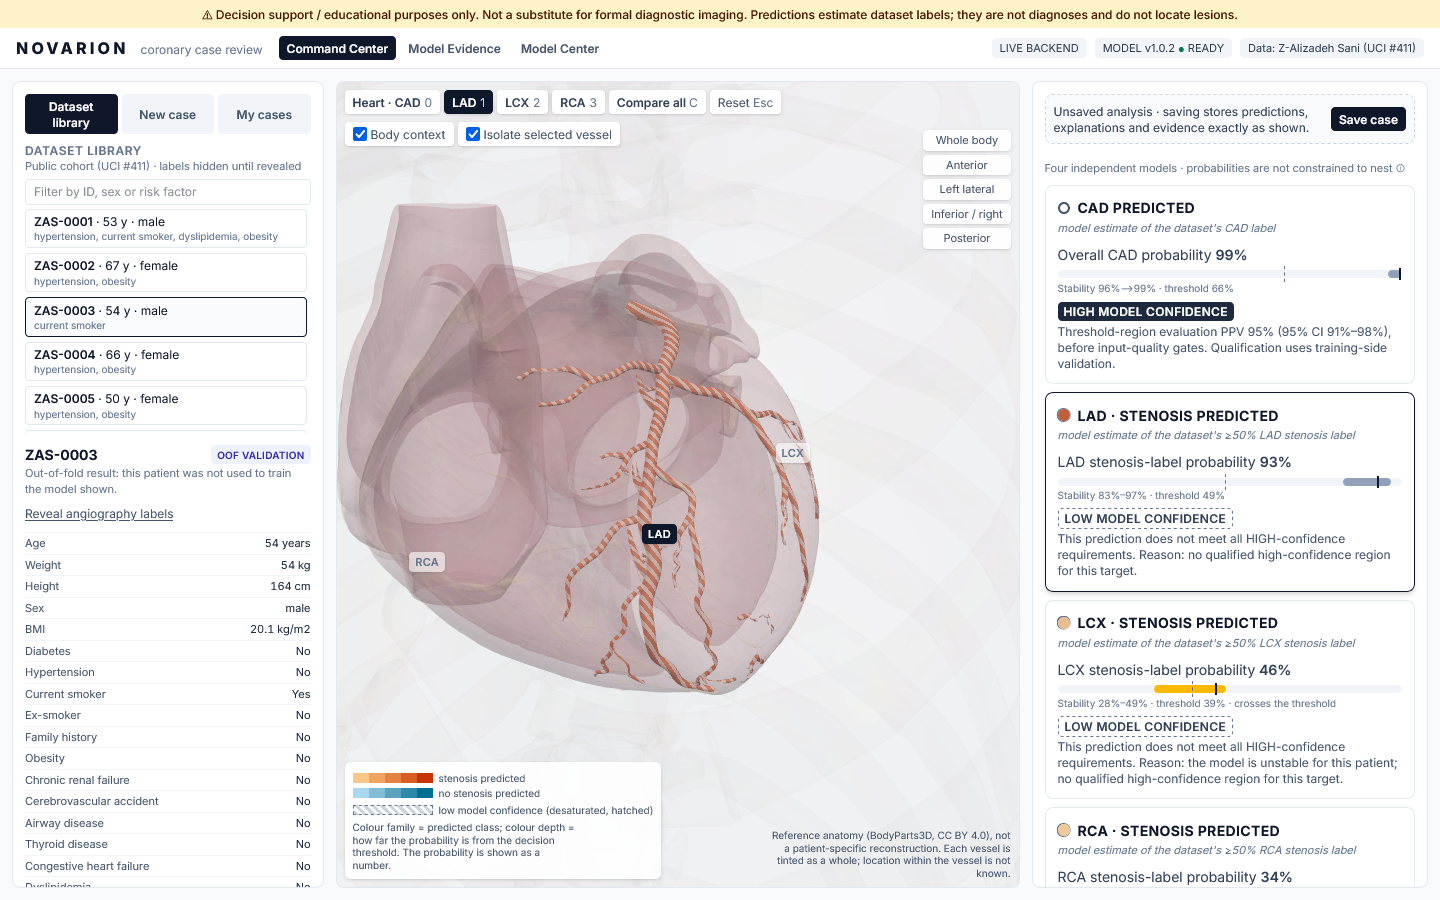
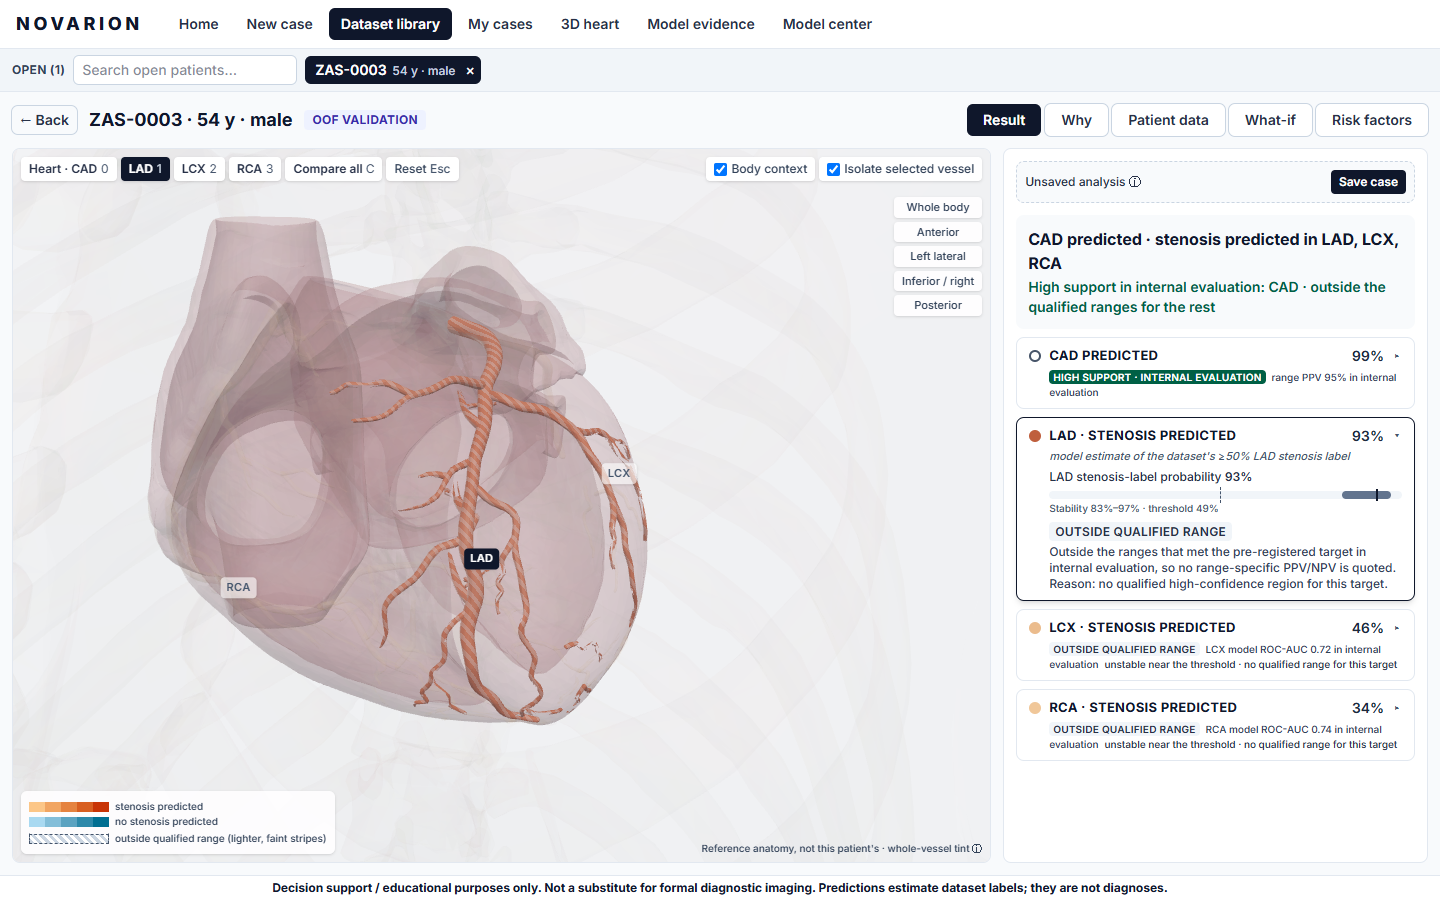
README and docs: status after v1.0.6 (D-035 to D-039), current counts, live URL, fresh screenshots
- README: a list of everything on main since v1.0.6, the decision log range D-001…D-039, 98 browser flows (mock and
  real model, 2026-10-15), the hosted URL no longer listed as open, release v1.0.7 added to the open items, and new
  screenshots from the current interface with the real model (ZAS-0003, a non-demo patient; Model Center charts).
- Compliance: dated 2026-10-15; the public URL and the published bundle are Met; 238 Python and 42 unit tests; the
  Model evidence (D-035) and Model Center (D-037) charts; the browser row rewritten with the real-model run.
- Model card: the displayed-scope CAD figure (44.6%, PPV 98.5%) beside the pre-gate threshold regions.
- Presentation notes: the measured AUCs and tier figures filled in where placeholders remained.

diff --git a/docs/compliance.md b/docs/compliance.md
@@ -4,7 +4,7 @@ Audit of NOVARION against the Track A brief (Cardiovascular Risk Visualization &
 evidence: the code, a test or a measured result. Status: **Met**, **Met (interpreted)** where the brief is open and
 our reading is stated, or **Open** where work remains.
 
-Audited 2026-10-07 and updated 2026-10-13 against production model **v1.0.2**: the same models as the frozen
+Audited 2026-10-07 and updated 2026-10-15 against production model **v1.0.2**: the same models as the frozen
 v1.0.0, plus stability intervals (D-017) and fold-safe evidence ledgers (D-019).
 
 ## Prediction
@@ -24,7 +24,7 @@ v1.0.0, plus stability intervals (D-017) and fold-safe evidence ledgers (D-019).
 |---|---|---|
 | 2a Interactive 3D torso/heart (React Three Fiber) | A BodyParts3D heart with named LAD/LCX/RCA/left-main nodes, plus a translucent torso and rib cage (`frontend/public/models/heart.glb`, `config/anatomy_manifest.json`). | Met |
 | 2b Vessel colour driven by predicted probability | OKLCH transfer: the colour family is the predicted class, and the depth is a monotone function of the calibrated probability with t_op as zero. Predictions outside the qualified range (LOW tier) have lower chroma and faint stripes (D-024). The exact probability is always shown (`frontend/src/three/colors.ts`; `config/anatomy_map.json`). | Met |
-| 2c Rotate, zoom, select anatomical regions | Orbit and zoom, five camera presets and a whole-body view; a 3D heart page shows the anatomy on its own, with a description of each artery (D-025). Vessels and the heart can be clicked in 3D or selected from cards (one store action). The torso and ribs are deliberately not pickable, so a click can't land on context instead of a vessel (D-011). | Met |
+| 2c Rotate, zoom, select anatomical regions | Orbit and zoom, five camera presets and a whole-body view; a 3D heart page shows the anatomy on its own, with a description of each artery (D-025), and the public landing page has an explorable reference heart with artery controls and a short tour (D-036). Vessels and the heart can be clicked in 3D or selected from cards (one store action). The torso and ribs are deliberately not pickable, so a click can't land on context instead of a vessel (D-011). | Met |
 | Show **where** and **how** | **Where:** the predicted vessel on the heart, tinted as a whole; we never imply a lesion location. **How:** per-vessel feature contributions and group sums. The data has one visit per patient, so we show contributing factors, not progression. | Met (interpreted) |
 | Output ↔ vessel correspondence | `config/anatomy_map.json` binds each target to its node, camera and label anchor (`tests/test_anatomy.py`). | Met |
 | Real-time visualization updates | Editing a measurement triggers a debounced (300 ms) `/predict`; vessels recolour with easing and stale responses are discarded. `/predict` p95 is 104 ms on the Docker stack, against a 200 ms budget (`results/perf.json`). | Met |
@@ -38,7 +38,7 @@ v1.0.0, plus stability intervals (D-017) and fold-safe evidence ledgers (D-019).
 | 3b SHAP/LIME explanation | Exact additive SHAP in calibrated log-odds: linear SHAP, TreeSHAP or EBM terms. The sum rule is tested for every served explanation (`tests/test_ml_core.py`, `tests/test_bundle.py`). | Met |
 | 3c Measurements and their relative contribution | The Why panel's measurement table shows each value, its contribution, a relative-share column and cohort percentiles; a compare-all-vessels heatmap sits alongside. | Met |
 | What-if and robustness (plan Tier 3) | `POST /sensitivity` ICE curves for new/edited cases (age and sex locked; "model sensitivity, not treatment simulation"), Unknown inputs that could flip the class, model-family agreement (Table 3b), a 1,000-shuffle label-permutation test (Table 1b, p = 0.001 for every target) and stability bars on the cards. | Met |
-| Explanation dashboard | The Model Evidence page carries Tables 1–2, ROC/PR curves with bootstrap bands, reliability, threshold sweep and family benchmarks. | Met |
+| Explanation dashboard | The Model Evidence page (rebuilt in D-035 on shadcn/ui charts + Recharts) carries Tables 1–2, confidence-tier cards that reconcile to the cohort, ROC/PR curves with bootstrap bands, reliability, threshold sweep, the guideline comparison as a paired ΔAUC plot, subgroup forest plots, a Methods & limitations tab and CSV/JSON export of every chart. The Model Center draws the replay learning curves, gate outcomes and paired ΔAUC in the same style (D-037). | Met |
 
 ## Assets, safety and technology
 
@@ -52,8 +52,8 @@ v1.0.0, plus stability intervals (D-017) and fold-safe evidence ledgers (D-019).
 
 | Deliverable | Evidence | Status |
 |---|---|---|
-| Web app | Docker stack (`docker compose up` → http://localhost:8080, READY in ~15 s; the API is reached through it at /api/v1, the backend port is not published (audit R17); `NOVARION_WEB_PORT` moves it off a busy port) and a dev setup. Offline demo mode serves a hash-verified static bundle. | Met (local); **Open:** a public hosted URL, if the submission requires one |
-| Trained pipeline + weights | `make reproduce` reruns everything. Bundle `artifacts/models/v1.0.2` has per-file hashes, and the backend refuses a modified bundle. Weights are gitignored and rebuilt by `make reproduce`. | Met; **Open:** decide whether to attach the bundle to a GitHub release |
+| Web app | Docker stack (`docker compose up` → http://localhost:8080, READY in ~15 s; the API is reached through it at /api/v1, the backend port is not published (audit R17); `NOVARION_WEB_PORT` moves it off a busy port) and a dev setup. Offline demo mode serves a hash-verified static bundle. | Met: also **live at https://novarion.onrender.com** with the real model (Render free plan, sign-in judge / judge123; D-029, D-030) |
+| Trained pipeline + weights | `make reproduce` reruns everything. Bundle `artifacts/models/v1.0.2` has per-file hashes, and the backend refuses a modified bundle. The trained v1.0.2 bundle is published in the repository (`deploy/hosted/model/`, audit R01, D-030); `make reproduce` rebuilds it. | Met |
 | ≤ 6-page documentation | `docs/report.pdf`, 4 pages, with every number read from `results/` at build time. Also `docs/model_card.md` and `docs/decisions.md`. | Met |
 | 3–10 min YouTube demo | Recorded at the end of the project, by the team. | **Open** |
 
@@ -61,9 +61,9 @@ v1.0.0, plus stability intervals (D-017) and fold-safe evidence ledgers (D-019).
 
 | Gate | Result |
 |---|---|
-| Python tests | 221 pass: leakage, contract, additivity, calibration, thresholds, hashing, bundle integrity, golden set, stability, learning loop, input edge cases, sensitivity, concurrency, budgets, secret scan, guideline comparator, sign-in (D-022), and the audit fixes (D-026: lifecycle safety, cache identity, stability binding, reproduction comparison, rate-limit proxy trust, release-pinned demo index). |
-| Frontend unit tests | 39 pass (vitest, incl. case validation and per-account storage), plus typecheck, lint, generated-API sync and a warning-free build. |
-| Browser E2E | 77 flows pass on the rebuilt Docker stack with the real model and against the mock, after the D-022 to D-034 interface work and the D-026 audit fixes (2026-10-14, Edge). The earlier 50-flow run covered **Edge, Chrome and Firefox** (`results/browser_matrix_log.txt`). They include axe accessibility checks (also on the no-WebGL fallback), failure injection, offline mode, WebGL fallback and context loss, storage damage and deletion, what-if, the learning loop, a same-origin privacy check, the PR #1 regression suites, and the landing page, sign-in page, sign-out and expired sessions, open-patient workspaces (isolation, search, close), and the 3D heart page (private selection, case snapshots unaffected). After v1.0.6 (D-035): 89 flows with the real model (local servers) and 88 + 1 real-only skip against the mock, adding the Model evidence acceptance suite (every tab × target, tier reconciliation, exports equal to the evaluation outputs, keyboard tabs, axe on each tab, no sideways scroll on a phone). D-036: 97 flows on the mock (96 + 1 real-only skip), with the landing-heart suite (controls and picking, tour ownership, wheel vs Ctrl + wheel, off-screen pause, keyboard and reduced motion, no WebGL, model error, context loss, phone portrait and landscape, workspace isolation, axe). |
+| Python tests | 238 pass: leakage, contract, additivity, calibration, thresholds, hashing, bundle integrity, golden set, stability, learning loop, input edge cases, sensitivity, concurrency, budgets, secret scan, guideline comparator, sign-in (D-022), and the audit fixes (D-026: lifecycle safety, cache identity, stability binding, reproduction comparison, rate-limit proxy trust, release-pinned demo index), and the second-audit fixes (D-039: journaled and locked lifecycle writers, journal events in the API, stability identity and coverage, finite-aware reproduction checks, evidence source identity). |
+| Frontend unit tests | 42 pass (vitest, incl. case validation, per-account storage and risk-factor ranges), plus typecheck, lint, generated-API sync and a warning-free build. |
+| Browser E2E | **98 flows** (Edge): 97 pass against the mock plus 1 that needs the real model's figures (2026-10-15; on this busy laptop the cases export/import, Model evidence and landing-heart isolation flows timed out in the two-worker run and passed when re-run alone, export/import 3 of 3); with the real model on local dev servers all 98 pass (2026-10-15, after D-035 to D-039; the landing-heart phone flow and the dataset-library axe check timed out under load in the two-worker run and passed when re-run alone). Not yet re-run on the Docker stack. Release v1.0.6 was verified with 77 flows on the rebuilt Docker stack with the real model (2026-10-14); the earlier 50-flow run covered **Edge, Chrome and Firefox** (`results/browser_matrix_log.txt`). The flows include axe accessibility checks (also on the no-WebGL fallback and on every Model evidence tab), failure injection, offline mode, WebGL fallback and context loss, storage damage and deletion, what-if, the learning loop and Model Center charts, a same-origin privacy check, the PR #1 regression suites, the landing page and its explorable heart, sign-in, sign-out and expired sessions, open-patient workspaces (isolation, search, close), the 3D heart page, the Model evidence acceptance suite (every tab × target, tier reconciliation, exports equal to the evaluation outputs, no sideways scroll on a phone), and a check that no page lets the window scroll past the disclaimer. |
 | GitHub CI | **Met.** Python, frontend and e2e jobs green on `main` (fresh Linux runners, CI-safe single worker). |
 | Fresh-clone reproduction | **Met.** A full `make reproduce` on a fresh clone with freshly downloaded data matched every fold, metric, golden prediction, stability interval and replay result exactly (`results/reproduction.json`, D-020). |
 | Performance and memory | **Met.** `/predict` p95 104 ms (Docker, budget 200 ms); 3D median 59.9 fps on integrated graphics; backend RSS 178 → 184 MB peak; offline bundle 3.5 MB gzipped (budget 25 MB); JS heap 13 MB after 30 patients (`results/perf.json`). |

diff --git a/README.md b/README.md
@@ -20,9 +20,9 @@ every prediction with exact SHAP contributions beside the patient's measurements
 workflow: case → quality gate → 3D review → human note → hash-verified Review Snapshot → case history. A governed
 learning loop lets verified outcomes reach a model update only through a validation gate and human approval.
 
-![Command Center: LAD selected on a held-out patient](docs/img/command-center-lad.png)
+![Case review: LAD selected on a held-out patient (ZAS-0003, real model v1.0.2)](docs/img/command-center-lad.png)
 
-| Compare all vessels | Model Center |
+| Compare all vessels | Model Center: replay learning curves and gate outcomes |
 |---|---|
 | ![Compare all vessels](docs/img/compare-vessels.png) | ![Model Center](docs/img/model-center.png) |
 
@@ -106,9 +106,9 @@ over (Table 7, subgroups).
 - 3D frame rate: median 59.9 fps on Intel Iris Xe integrated graphics.
 - Backend memory: 178 MB after start, 184 MB peak under load.
 - Offline bundle: 3.5 MB gzipped. Browser JS heap: 13 MB after opening 30 patients.
-- Browser E2E: 97 flows on the mock (96 pass; one needs the real model's figures), Edge, including axe accessibility
-  checks; 89 also passed with the real model before the landing-heart work (D-036); release v1.0.6 was verified with 77 on the Docker stack, and the earlier 50-flow
-  suite also ran in Chrome and Firefox.
+- Browser E2E: 98 flows on the mock (97 pass, three of them on a re-run alone under load; one needs the real model's figures), Edge, including axe accessibility
+  checks; all 98 also passed with the real model on local servers (2026-10-15; two on a re-run alone, under load). Release v1.0.6 was verified with 77 on the Docker stack, and the earlier 50-flow suite also
+  ran in Chrome and Firefox.
 
 ## How it works
 
@@ -157,7 +157,8 @@ predictions, and the production model never changes silently.
 **Historical replay** (a research demonstration, *not* temporal validation): the same 303 patients are replayed in 10
 random arrival orders through the same lifecycle code. LCX improves as cases accumulate (AUC 0.671 → 0.714), and the
 other targets plateau. The gate promoted a challenger in only 1 of 20 replays, because with 50-patient holdouts the
-paired intervals are wide. That conservatism is by design.
+paired intervals are wide. That conservatism is by design. The Model Center draws this as a learning curve per vessel
+with its spread across arrival orders, the gate outcomes and the rules that failed (D-037).
 
 ## Documents
 
@@ -167,7 +168,7 @@ paired intervals are wide. That conservatism is by design.
 | [`docs/compliance.md`](docs/compliance.md) | Track A compliance audit, item by item, with evidence |
 | [`docs/model_card.md`](docs/model_card.md) | Model card |
 | [`docs/tripod_ai.md`](docs/tripod_ai.md) | TRIPOD+AI reporting checklist |
-| [`docs/decisions.md`](docs/decisions.md) | Decision log D-001…D-021 |
+| [`docs/decisions.md`](docs/decisions.md) | Decision log D-001…D-039 |
 | [`docs/audit/`](docs/audit/README.md) | External audit by MysteryMindz (PR #1), integrated in D-019 |
 | [`results/error_analysis.md`](results/error_analysis.md), [`results/eda.md`](results/eda.md) | Error analysis and EDA |
 | `results/ablation.json` | Feature-group ablation |
@@ -182,7 +183,7 @@ paired intervals are wide. That conservatism is by design.
 
 ```bash
 make test                                        # 238 Python tests
-cd frontend && npm run typecheck && npm run lint && npm test && npx playwright test   # 42 unit + 97 E2E (mock API)
+cd frontend && npm run typecheck && npm run lint && npm test && npx playwright test   # 42 unit + 98 E2E (mock API)
 make docker-e2e                                  # the same E2E flows against the Docker stack + real model
 # Port 8000 or 5173 busy? E2E_API_PORT=8010 E2E_WEB_PORT=5180 npx playwright test; NOVARION_WEB_PORT=8081 docker compose up
 ```
@@ -209,18 +210,28 @@ model (D-029, D-030). In v1.0.6: the landing page's 3D heart moves, visiting eac
 form problems in a corner panel and a hand cursor on clickables (D-032); fixes from a live walk-through and a smoother
 3D heart (D-033); a "Risk factors" case tab with educational, non-advisory information (D-034). Verified: 221 Python
 tests, 39 unit tests and 77 browser flows, against the mock, against the
-rebuilt Docker stack with the real model, and against the hosted image. **After v1.0.6:** a research-grade Model
-evidence page (D-035): shadcn/ui charts on Recharts, a Methods & limitations tab, confidence-tier cards that
-reconcile to the cohort, the guideline comparison as a paired ΔAUC plot, subgroup forest plots and CSV/JSON export of
-every chart; 89 browser flows with the real model (local servers) and against the mock. Then an explorable landing
-heart, "Explore the coronary arteries" (D-036): artery controls, picking, a stoppable one-pass tour, deliberate zoom
-that never takes page scrolling, opt-in 3D on touch screens, and image fallbacks; 97 browser flows on the mock.
-Then the backend fixes from the second external audit (D-039, items N03, N05 scripts, N07 risk factors, N08, N09):
-lifecycle journal events reach the Model Center API, every lifecycle writer is locked and journaled, stability
-intervals carry their own identity and full coverage, reproduction checks are finite-aware, a released version is
-rebuilt only as an unregistered reproduction, published evidence carries the identity of its computation, and the
-Risk factors tab flags borderline ranges; 238 Python and 42 unit tests pass (the real-model browser run for these is
-still to do). The audit's frontend items (N01, N02, N04, N05 frontend, N06, N07 landing copy, N10, N11) are open.
+rebuilt Docker stack with the real model, and against the hosted image.
+
+**On `main` since v1.0.6 (unreleased; the model is unchanged, still v1.0.2):**
+- **Model evidence page** (D-035): shadcn/ui charts on Recharts, a Methods & limitations tab, confidence-tier cards
+  that reconcile to the cohort, the guideline comparison as a paired ΔAUC plot, subgroup forest plots and CSV/JSON
+  export of every chart.
+- **Explorable landing heart**, "Explore the coronary arteries" (D-036): artery controls, picking, a stoppable
+  one-pass tour, deliberate zoom that never takes page scrolling, opt-in 3D on touch screens and image fallbacks.
+- **Model Center charts** in the same style (D-037): per-vessel replay learning curves with min–max bands, replay gate
+  outcomes with the rules that failed, and the gate report's paired ΔAUC against the −0.05 margin; the page loads on
+  demand, so the main bundle stays at 499 kB.
+- **My cases and New case** (D-038): a red Delete button at the end of each saved case; a full-width New case form
+  with larger controls.
+- **Second external audit, backend items** (D-039: N03, N05 scripts, N07 risk factors, N08, N09): lifecycle journal
+  events reach the Model Center API, every lifecycle writer is locked and journaled, stability intervals carry their
+  own identity and full coverage, reproduction checks are finite-aware, a released version is rebuilt only as an
+  unregistered reproduction, published evidence carries the identity of its computation, and the Risk factors tab
+  flags borderline ranges. No page lets the window scroll past the disclaimer (a new browser check).
+- **Verified:** 238 Python tests, 42 unit tests, 98 browser flows against the mock (97 pass; one needs the real
+  model's figures; three passed on a re-run alone) and all 98 against the real model on local servers (2026-10-15; two load-sensitive flows passed on a re-run alone).
+
+The audit's frontend items (N01, N02, N04, N05 frontend, N06, N07 landing copy, N10, N11) are still open.
 The trained bundle v1.0.2 is published in `deploy/hosted/model/` (audit R01, D-030): for `docker compose` on a fresh
 clone, copy it to `artifacts/models/v1.0.2` (or rebuild it with `make reproduce`).
 
@@ -228,7 +239,7 @@ Still open, for the team:
 - the second-machine run;
 - rehearsals and an outside-user usability test;
 - the demo video;
-- a public hosted URL, if the submission requires one.
+- release v1.0.7, to freeze the work above under its own manifest.
 
 Any change to the model, features, anatomy, thresholds, explanations, API or demo patients now needs a new version
 (v1.0.7 and up) with its own release manifest (`scripts/release_manifest.py --version X.Y.Z --final`).

diff --git a/docs/presentation_notes.md b/docs/presentation_notes.md
@@ -1,7 +1,7 @@
 # Presentation notes (demo, video, judge Q&A)
 
 Written **before** any real model results exist (D-008), so the wording cannot be tuned to the outcome.
-Replace every `[ACTUAL …]` with the measured value from `results/`; never round in our favour.
+The measured values from `results/` (model v1.0.2) are filled in below; never round in our favour.
 
 ## 1. If many predictions are OUTSIDE QUALIFIED RANGE
 
@@ -24,7 +24,7 @@ tier (demo patients are fixed in `config/demo_config.yaml` before final predicti
 contrast is visible.
 
 **In the report (Table 2):** the share of HIGH-positive / HIGH-negative / LOW per target, with the measured PPV/NPV
-of the HIGH regions `[ACTUAL]`. If a target has no qualified region at all, say it plainly: "the available features
+of the HIGH regions. Measured, as displayed: CAD 44.6% high-positive at PPV 98.5% [96.2–100], no high-negative region; LAD, LCX and RCA have no qualified region (Table 2b). If a target has no qualified region at all, say it plainly: "the available features
 do not separate this vessel well enough in this cohort to qualify a high-confidence region."
 
 ## 2. "Other teams report 90 %+ accuracy. Why are your numbers lower?"
@@ -34,8 +34,8 @@ do not separate this vessel well enough in this cohort to qualify a high-confide
 > inside the training folds only. Many published results on this dataset select features or tune on the full data,
 > or report accuracy at a threshold picked on the test set, which inflates the number. On a cohort that is 71 %
 > CAD-positive, 'always predict CAD' already scores 71 % accuracy, so we report accuracy next to that baseline, plus
-> ROC-AUC, balanced accuracy and calibration. Our CAD ROC-AUC is `[ACTUAL]` (outer-fold mean ± SD); the vessel
-> models are weaker (`[ACTUAL]`), which is an honest property of predicting vessel-level stenosis from routine
+> ROC-AUC, balanced accuracy and calibration. Our CAD ROC-AUC is 0.930 ± 0.035 (outer-fold mean ± SD); the vessel
+> models are weaker (LAD 0.838, LCX 0.721, RCA 0.736), which is an honest property of predicting vessel-level stenosis from routine
 > clinical features."
 
 Supporting evidence to have open: Table 1 (model vs always-negative / always-positive / prior baselines), the

diff --git a/docs/model_card.md b/docs/model_card.md
@@ -56,6 +56,8 @@ Nested cross-validation: outer stratified 5-fold × 5 repeats, inner 5-fold for 
 | LCX stenosis | 0.0% | — | 0.0% | — | 100.0% |
 | RCA stenosis | 0.0% | — | 0.0% | — | 100.0% |
 
+These are the threshold regions before the display gates. **As displayed** (after the UNKNOWN-input, atypical-profile and stability gates; `results/displayed_tiers.json`, Table 2b), CAD shows high support for 44.6% of patients at PPV 98.5% [96.2–100]; quote this figure in the app, demo and report.
+
 No vessel model qualified a high-confidence region at the pre-registered targets; the targets were fixed before results and are not lowered (D-008). Every case still receives a binary prediction.
 
 ## Feature-group ablation (descriptive)
